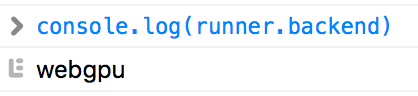
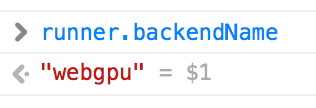
use prepareAll

diff --git a/src/descriptor_runner/webdnn.ts b/src/descriptor_runner/webdnn.ts
@@ -58,32 +58,42 @@ namespace WebDNN {
         return loadedBackendName;
     }
 
-    export async function createDNNDescriptorRunner() {
-        if (!this.gpu) await this.init();
-
-        return this.gpu.createDNNDescriptorRunner();
+    /**
+     * Prepare backend interface and load model data at once. Internally calls init().
+     * @param backendOrder The trying order of backend names to be initialized.
+     * @param backendOptions Backend options.
+     * @param progressCallback callback which is called to notice the loading is progressing.
+     */
+    export interface InitOption {
+        backendOrder?: string | string[],
+        backendOptions?: { [key: string]: any },
+        progressCallback?: (loaded: number, total: number) => any
     }
 
     /**
      * Prepare backend interface and load model data at once. Internally calls init().
      * @param directory URL of directory that contains graph descriptor files (e.g. graph_fallback.json)
-     * @param backendOrder The trying order of backend names to be initialized.
+     * @param initOption Initialize option
      * @return Interface to input/output data and run DNN.
      */
-    export async function prepareAll(directory: string, backendOrder?: string | string[], backendOptions?: { [key: string]: any }): Promise<DNNInterface> {
-        await init(backendOrder, backendOptions);
+    export async function prepareAll(directory: string, initOption: InitOption = {}): Promise<DNNInterface> {
+        await init(initOption.backendOrder, initOption.backendOptions);
 
         while (true) {
             try {
                 let runner = gpu.createDNNDescriptorRunner();
-                await runner.load(directory);
-                let input_views = await runner.getInputViews();
-                let output_views = await runner.getOutputViews();
+                await runner.load(directory, initOption.progressCallback);
+
+                let inputViews = await runner.getInputViews();
+                let outputViews = await runner.getOutputViews();
 
                 return {
-                    backendName: loadedBackendName, inputViews: input_views,
-                    outputViews: output_views, run: runner.run.bind(runner)
+                    backendName: loadedBackendName,
+                    inputViews: inputViews,
+                    outputViews: outputViews,
+                    run: runner.run.bind(runner)
                 };
+
             } catch (ex) {
                 console.error(`Model loading failed for ${loadedBackendName} backend. Trying next backend. ${ex.message}`);
                 await tryInitNext();

diff --git a/example/convert_caffe/minimal.js b/example/convert_caffe/minimal.js
@@ -5,14 +5,11 @@ let x, y;
 
 async function init() {
     // (1.1) Initialize DescriptorRunner
-    runner = await WebDNN.createDNNDescriptorRunner();
+    runner = await WebDNN.prepareAll('./output');
 
-    // (1.2) Load parameter data
-    await runner.load('./output');
-
-    // (1.3) Get input and output variables
-    x = (await runner.getInputViews())[0];
-    y = (await runner.getOutputViews())[0];
+    // (1.2) Get input and output variables
+    x = runner.inputViews[0];
+    y = runner.outputViews[0];
 }
 
 async function run() {

diff --git a/docs/source/tutorial/caffe.md b/docs/source/tutorial/caffe.md
@@ -16,8 +16,7 @@ First, You have to initialize [`DescriptorRunner`](../api_reference/descriptor_r
 and load model data.
 
 ```js
-let runner = await WebDNN.createDNNDescriptorRunner();
-await runner.load('./output');
+let runner = await runner.prepareAll('./output');
 ```
 
 WebDNN automatically select the best backend based on Browser type and 
@@ -26,7 +25,7 @@ compiled model data on the server.
 You can check the backend type
 
 ```js
-console.log(runner.backend);
+console.log(runner.backendName);
 ```
 
 ![backend](../_static/tutorial/check_backend.png)
@@ -34,8 +33,8 @@ console.log(runner.backend);
 Then you can get input and output variable references.
 
 ```js
-let x = (await runner.getInputViews())[0];
-let y = (await runner.getOutputViews())[0];
+let x = runner.inputViews[0];
+let y = runner.outputViews[0];
 ```
 
 That's all for initialization. You only have to do this at once in the application.
